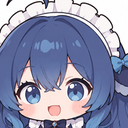
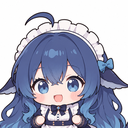
fix(assistant): 头像圆形遮罩不再切到头发
上一版裁得太贴边，40px 圆形遮罩把头顶呆毛和两侧头发切掉了。
放大取景到 264×264 重新导出，圆内留出白边，头部完整；
同时给图片 URL 加 ?v=2 破缓存。

diff --git a/ai-assistant.html b/ai-assistant.html
@@ -96,7 +96,7 @@
 
     <div class="chat-window" role="log" aria-live="polite" aria-label="对话区域">
       <div class="chat-window-head">
-        <div class="chat-avatar"><img src="/assets/pet/avatar-128.png" alt="大肥鱼"></div>
+        <div class="chat-avatar"><img src="/assets/pet/avatar-128.png?v=2" alt="大肥鱼"></div>
         <div>
           <div class="chat-window-name" data-i18n="chat.name">大肥鱼</div>
           <div class="chat-window-status connecting" id="chat-status" data-i18n="chat.statusConn">连接中…</div>
@@ -106,7 +106,7 @@
 
       <div class="chat-messages" id="chat-messages">
         <div class="msg bot">
-          <div class="msg-avatar"><img src="/assets/pet/avatar-128.png" alt="大肥鱼"></div>
+          <div class="msg-avatar"><img src="/assets/pet/avatar-128.png?v=2" alt="大肥鱼"></div>
           <div>
             <div class="msg-bubble" data-i18n="chat.hello">你好！我是大肥鱼，欧阳威的 AI 助手。你可以问我关于他的教育背景、技术技能、竞赛荣誉、实习经历，或者任何关于他的问题。想从哪里开始？</div>
             <div class="msg-time" data-i18n="chat.now">现在</div>
@@ -145,7 +145,7 @@
     /* 机器人头像统一用大肥鱼的脑袋 */
     function botAvatar() {
       var img = document.createElement('img');
-      img.src = '/assets/pet/avatar-128.png';
+      img.src = '/assets/pet/avatar-128.png?v=2';
       img.alt = '大肥鱼';
       return img;
     }
